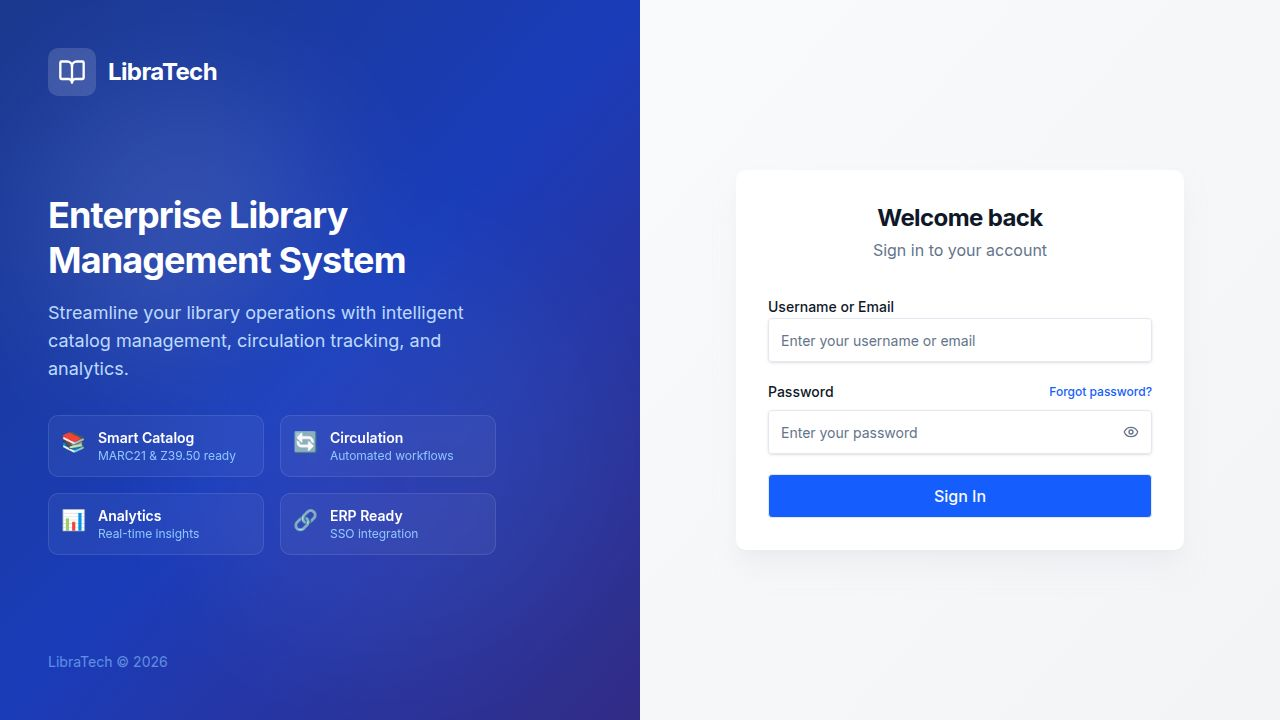
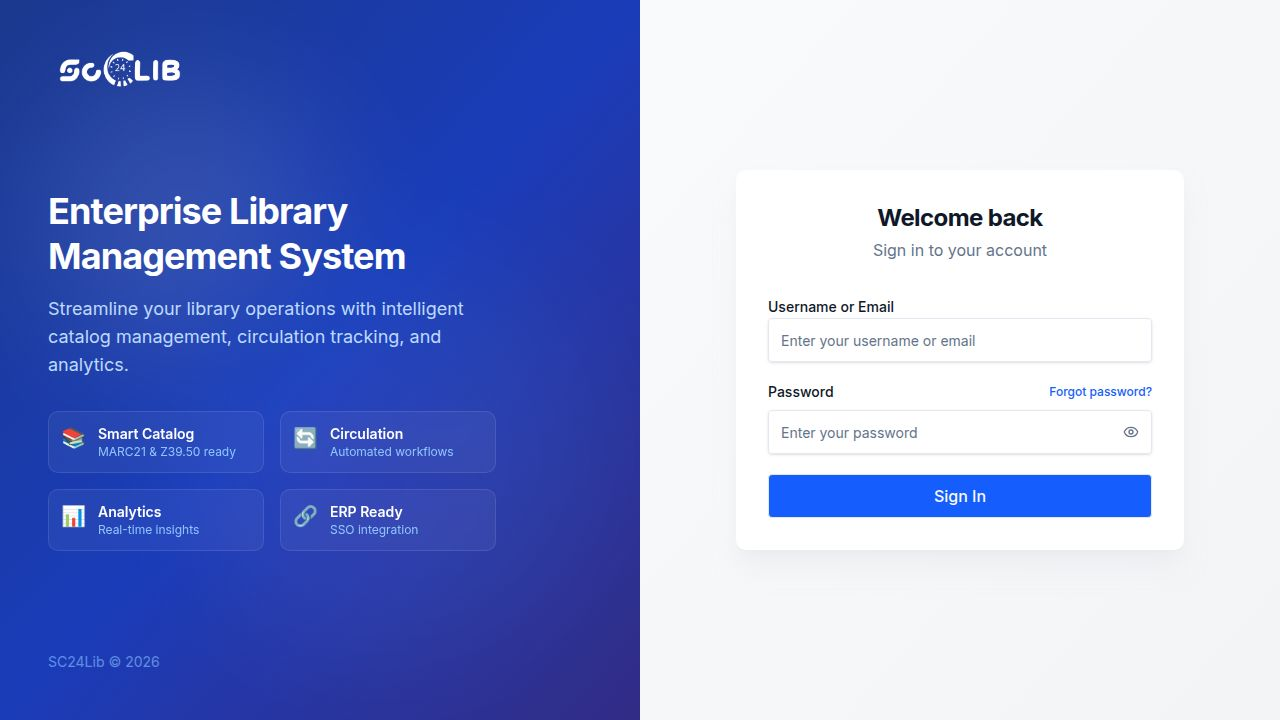
Update application and API titles to SC24Lib Platform
Updates the main HTML title, OpenGraph/Twitter meta tags, and Swagger API documentation titles to reflect "SC24Lib Platform" instead of "LibraTech".

Replit-Commit-Author: Agent
Replit-Commit-Session-Id: 895faabb-2360-4841-a017-23b989e8f099
Replit-Commit-Checkpoint-Type: full_checkpoint
Replit-Commit-Event-Id: e7deff7f-6625-4608-b62f-15fe7ea8f13a
Replit-Commit-Screenshot-Url: https://storage.googleapis.com/screenshot-production-us-central1/7f4800ff-08f3-4b4f-a4e0-d7776a3b2047/895faabb-2360-4841-a017-23b989e8f099/obVyKQ1
Replit-Helium-Checkpoint-Created: true

diff --git a/server/swagger.ts b/server/swagger.ts
@@ -6,12 +6,12 @@ const options: swaggerJsdoc.Options = {
   definition: {
     openapi: '3.0.0',
     info: {
-      title: 'LibraTech API',
+      title: 'SC24Lib Platform API',
       version: '1.0.0',
       description: `
-# LibraTech Enterprise Library Management System API
+# SC24Lib Platform - Enterprise Library Management System API
 
-This API documentation covers all endpoints for the LibraTech library management system, with focus on ERP integration and user provisioning.
+This API documentation covers all endpoints for the SC24Lib Platform library management system, with focus on ERP integration and user provisioning.
 
 ## Authentication Modes
 
@@ -44,7 +44,7 @@ The system supports three authentication modes:
 - No pre-provisioning required
       `,
       contact: {
-        name: 'LibraTech Support',
+        name: 'SC24Lib Support',
       },
     },
     servers: [
@@ -2503,7 +2503,7 @@ const swaggerSpec = swaggerJsdoc(options);
 export function setupSwagger(app: Express) {
   app.use('/api-docs', swaggerUi.serve, swaggerUi.setup(swaggerSpec, {
     customCss: '.swagger-ui .topbar { display: none }',
-    customSiteTitle: 'LibraTech API Documentation',
+    customSiteTitle: 'SC24Lib Platform API Documentation',
     swaggerOptions: {
       persistAuthorization: true,
       displayRequestDuration: true,

diff --git a/client/index.html b/client/index.html
@@ -4,14 +4,15 @@
     <meta charset="UTF-8" />
     <meta name="viewport" content="width=device-width, initial-scale=1.0, maximum-scale=1" />
 
-    <meta property="og:title" content="LibraTech - Enterprise Library Management" />
+    <title>SC24Lib Platform</title>
+    <meta property="og:title" content="SC24Lib Platform" />
     <meta property="og:description" content="Advanced library management system with ERP integration capabilities." />
     <meta property="og:type" content="website" />
     <meta property="og:image" content="https://replit.com/public/images/opengraph.png" />
     <meta name="twitter:card" content="summary_large_image" />
     <meta name="twitter:site" content="@replit" />
-    <meta name="twitter:title" content="LibraTech LMS" />
-    <meta name="twitter:description" content="Enterprise Library Management System" />
+    <meta name="twitter:title" content="SC24Lib Platform" />
+    <meta name="twitter:description" content="SC24Lib - Enterprise Library Management Platform" />
     <meta name="twitter:image" content="https://replit.com/public/images/opengraph.png" />
 
     <link rel="icon" type="image/png" href="/favicon.png" />
